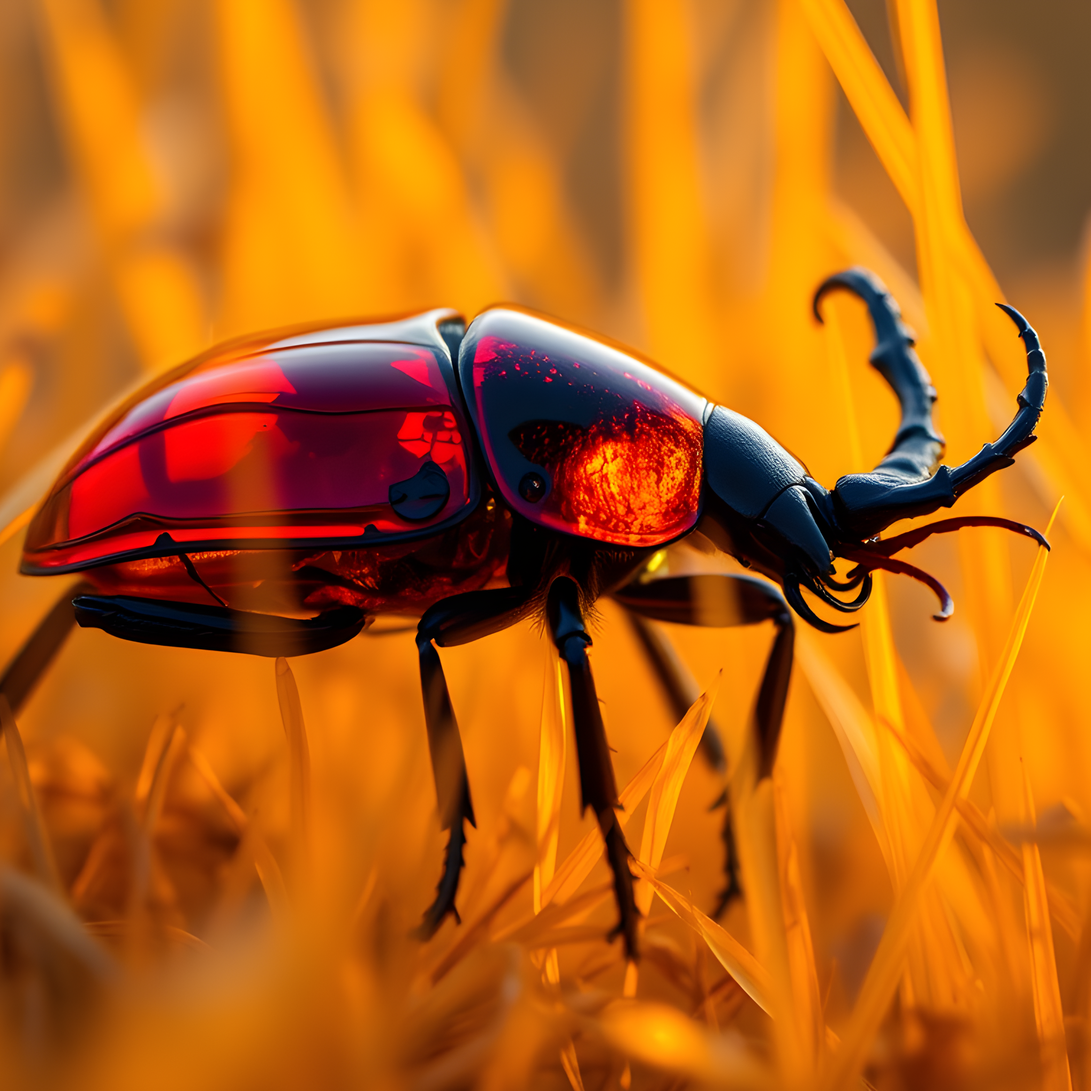
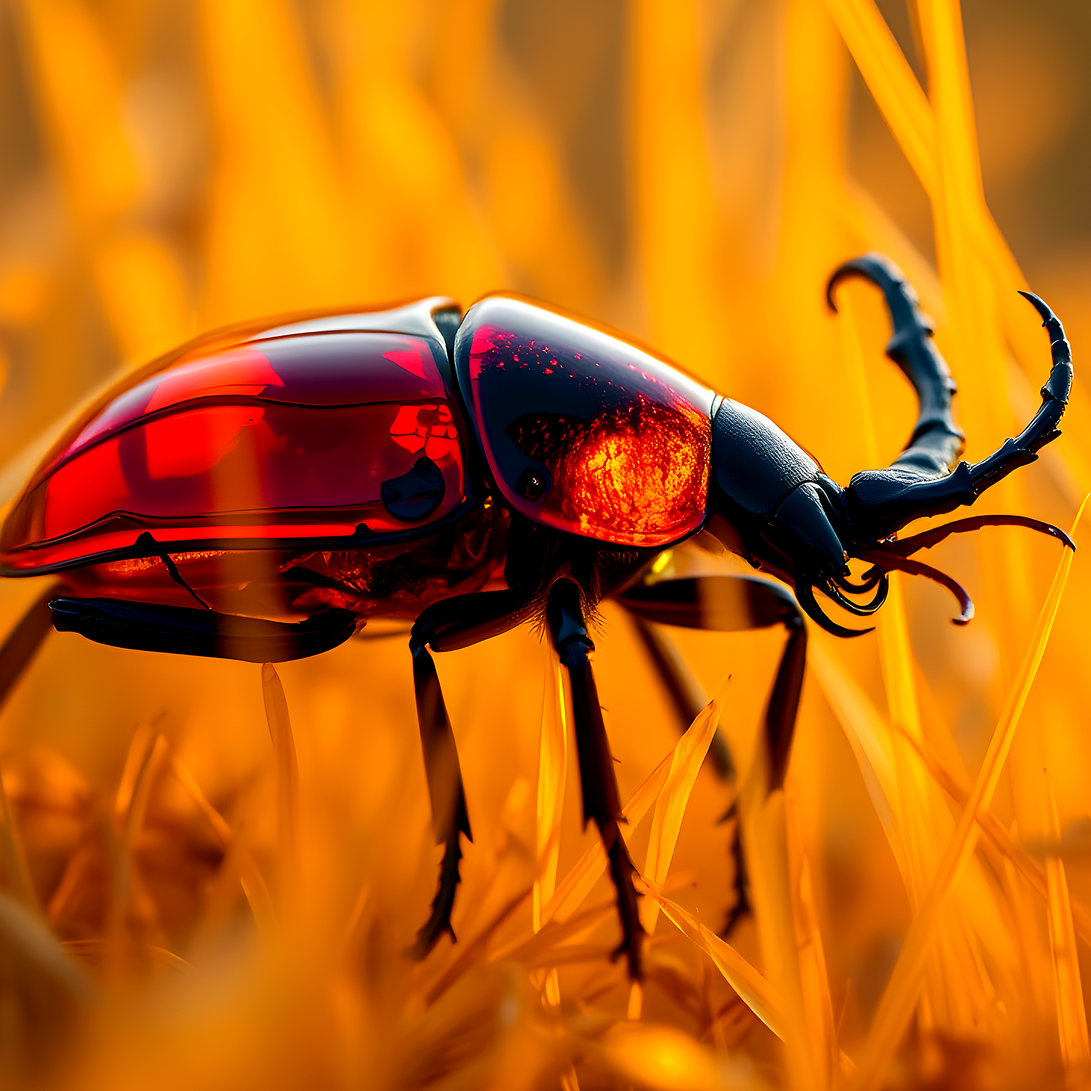
Upgrade 2026-09-26 Kaelith + 2026-09-27 Briarwyn to epic wallpaper HQ
Photoshop epic polish from RAW RealESRGAN HQ (not stacked mild):
Kaelith warm amber dusk / stained-glass; Briarwyn soft cool-green dawn mist.

diff --git a/drops/2026-09-27/README.md b/drops/2026-09-27/README.md
@@ -34,7 +34,7 @@ Body plan: plant spirit / flower dryad. Clear rotation away from moth, owl, skin
 - Studio: [Minzy Studios](https://minzystudios.com)
 - Contact: hello@minzystudios.com
 - Creature: Briarwyn Dewbloom (mystical blossoming plant spirit / living flower dryad, soft dawn meadow mist)
-- Art: Flux schnell (AETHERION free-drop engine), RealESRGAN_x4plus HQ, 2026-09-27
+- Art: Flux schnell (AETHERION free-drop engine), RealESRGAN_x4plus HQ, Photoshop epic wallpaper polish, 2026-09-27
 
 ## Download
 

diff --git a/drops/2026-09-26/README.md b/drops/2026-09-26/README.md
@@ -34,7 +34,7 @@ Body plan: insect (stag beetle). Clear rotation away from moth, owl, skink, fox,
 - Studio: [Minzy Studios](https://minzystudios.com)
 - Contact: hello@minzystudios.com
 - Creature: Kaelith Emberstag (mystical crystalline stained-glass stag beetle, meadow dusk)
-- Art: Flux schnell (AETHERION free-drop engine), RealESRGAN_x4plus HQ, 2026-09-26
+- Art: Flux schnell (AETHERION free-drop engine), RealESRGAN_x4plus HQ, Photoshop epic wallpaper polish, 2026-09-26
 
 ## Download
 
